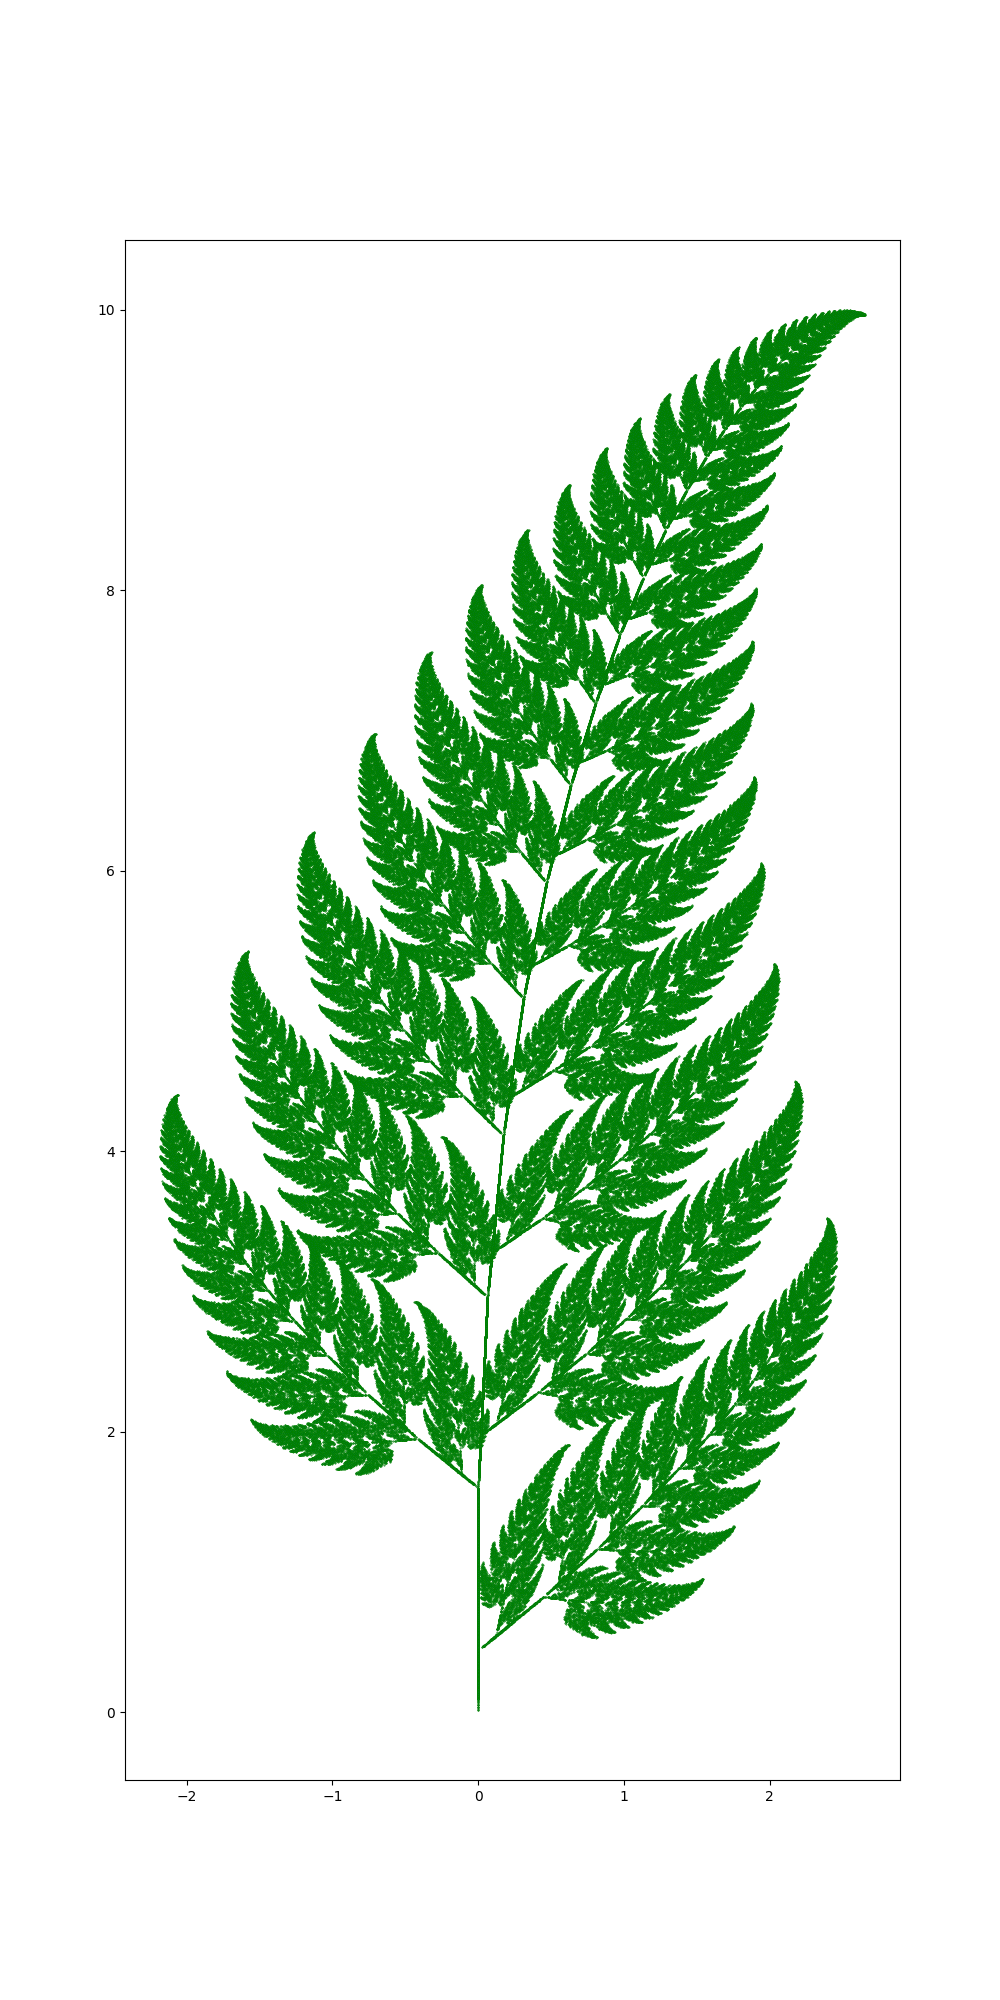
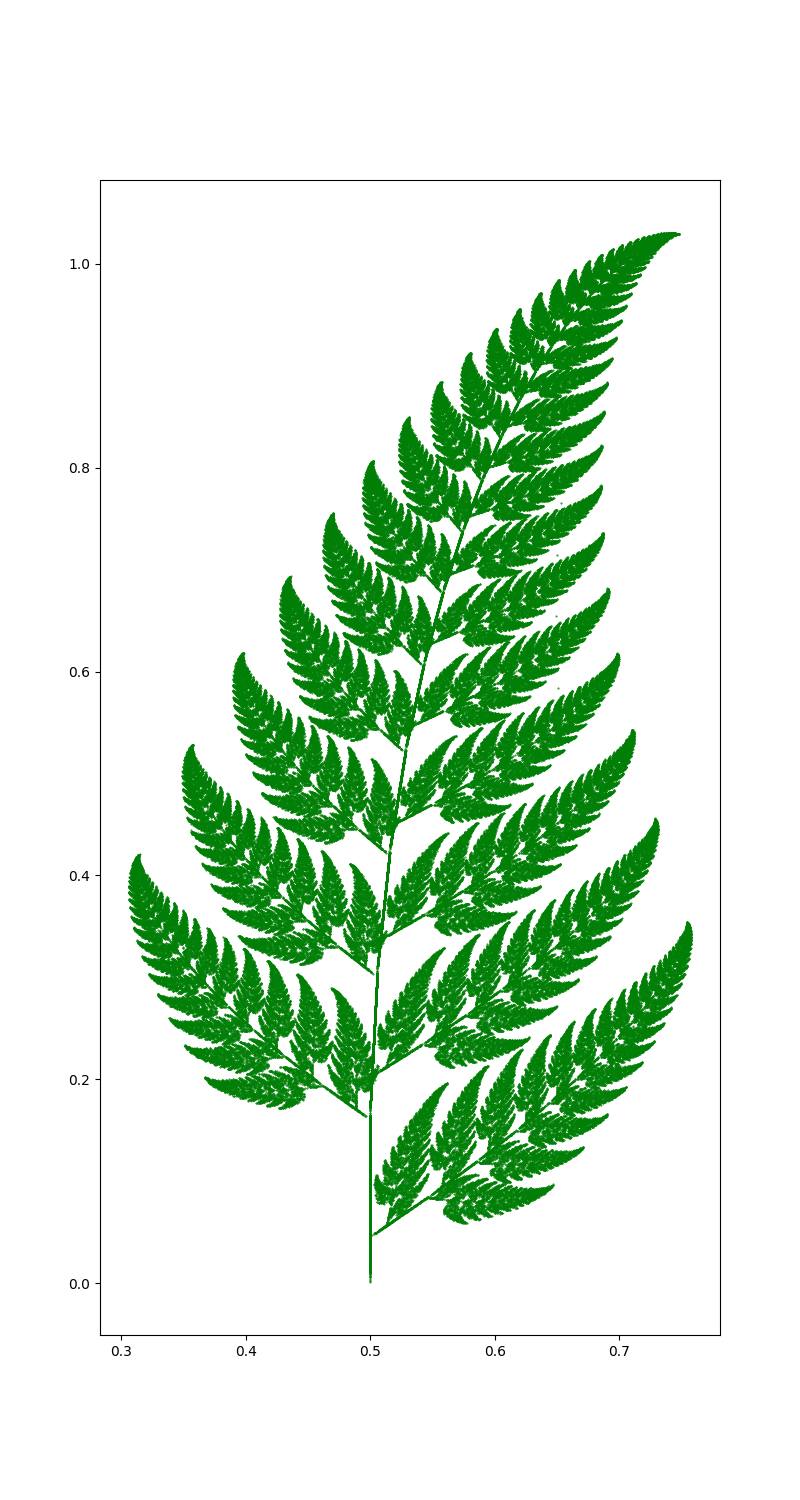
using numpy to generate the fern with updated transforms

diff --git a/barnsley-fern.py b/barnsley-fern.py
@@ -3,10 +3,10 @@ import matplotlib.pyplot as plt
 import numpy as np
 
 # initializing the affine transform
-stem = np.array([[0, 0, 0], [0, 0.16, 0], [0, 0, 1]])
-small_leaflet = np.array([[0.85, 0.04, 0], [-0.04, 0.85, 1.6], [0, 0, 1]])
-large_L_leaflet = np.array([[0.2, -0.26, 0], [0.23, 0.22, 1.6], [0, 0, 1]])
-large_R_leaflet = np.array([[-0.15, 0.28, 0], [0.26, 0.24, 0.44], [0, 0, 1]])
+stem = np.array([[0, 0, 0.5], [0, 0.16, 0], [0, 0, 1]])
+small_leaflet = np.array([[0.849, 0.037, 0.075], [-0.037, 0.849, 0.183], [0, 0, 1]])
+large_L_leaflet = np.array([[0.197, -0.226, 0.4], [0.226, 0.197, 0.049], [0, 0, 1]])
+large_R_leaflet = np.array([[-0.15, 0.283, 0.575], [0.26, 0.237, -0.084], [0, 0, 1]])
 
 delta = 0.01
 P = np.array([max(delta, np.abs(np.linalg.det(stem))),
@@ -21,26 +21,18 @@ frac_ops = [lambda p: np.dot(stem, p),
             lambda p: np.dot(large_L_leaflet, p),
             lambda p: np.dot(large_R_leaflet, p)]
 
-x = []
-y = []
+# init points array
+N = 300000
+np_points = np.zeros((2,N))
+np_points = np.row_stack((np_points, np.ones((1,N))))
 
-# setting first element to 0
-x.append(0)
-y.append(0)
+# generate the points
+for i in range(N-1):
+    np_points.T[i+1] = np.random.choice(frac_ops, p=P)(np_points.T[i])
 
-current = 0
-
-for i in range(1, 500000):
-
-    # generates a random integer between 1 and 100
-    newPoint = np.random.choice(frac_ops, p=P)([x[current], y[current], 1])
-    x.append(newPoint[0])
-    y.append(newPoint[1])
-
-    current = current + 1
-
-plt.figure(figsize=(10, 20))
-plt.scatter(x[100:], y[100:], s=0.2, edgecolor='green')
+# Draw the fern
+plt.figure(figsize=(8, 15))
+plt.scatter(np_points[0,10:], np_points[1,10:], s=0.2, edgecolor='green')
 
 plt.savefig("./numpy-fern.png")
 
